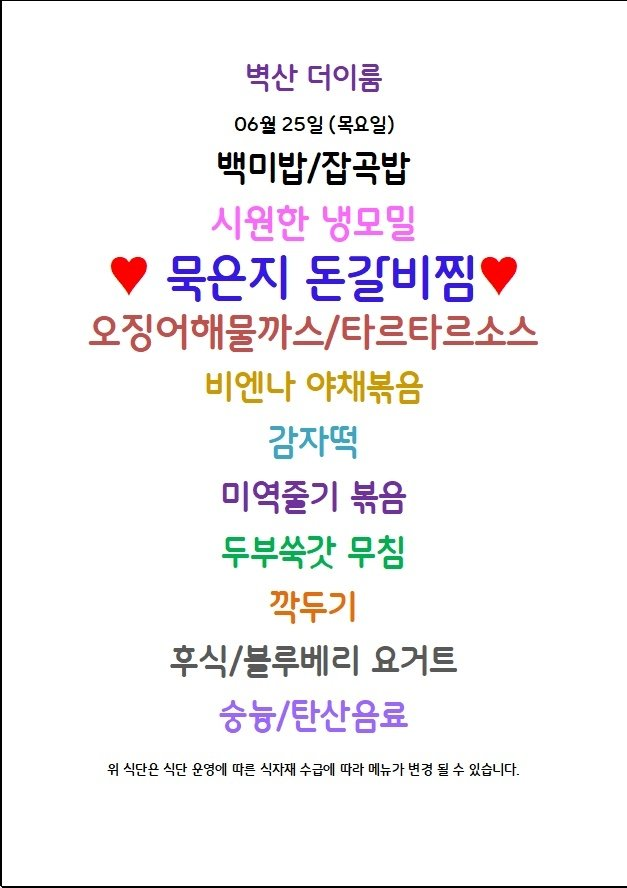
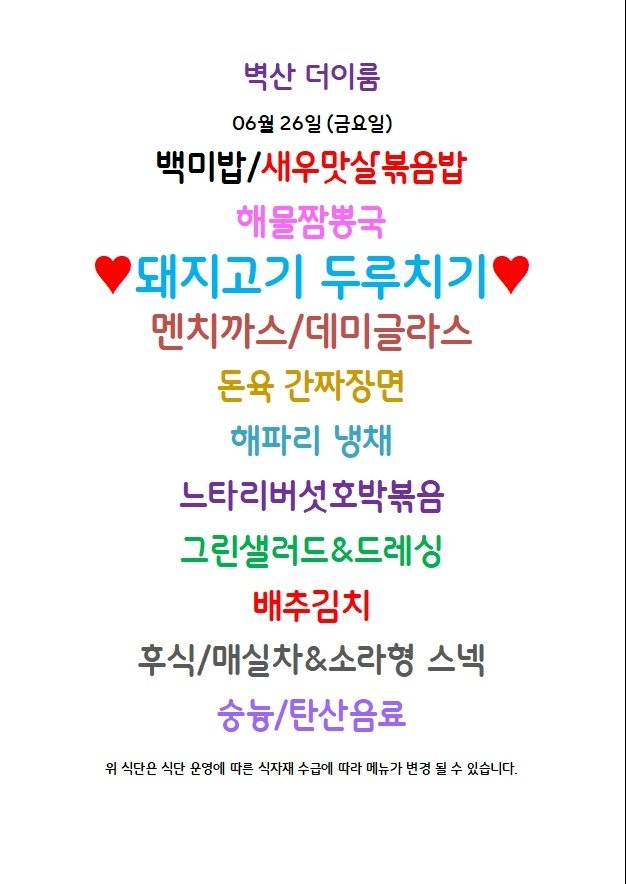
Update menu board assets

diff --git a/guro-menu/index.html b/guro-menu/index.html
@@ -32,7 +32,7 @@
   </header>
   <section class="meta">
     <div><small>기준 날짜</small><strong>2026년 6월 26일 금요일</strong></div>
-    <div><small>최종 갱신</small><strong>2026-06-26 09:03:28</strong></div>
+    <div><small>최종 갱신</small><strong>2026-06-26 09:14:09</strong></div>
     <div><small>등록 식당</small><strong>5개</strong></div>
   </section>
   <div class="notice">공개 카카오 채널의 메뉴 이미지를 자동 수집하고 OCR로 정리합니다. 텍스트에 오타가 있을 수 있으니 식단 이미지를 함께 확인해 주세요.</div>
@@ -89,8 +89,8 @@
           <a class="channel" href="https://pf.kakao.com/_xdLzxgG" target="_blank" rel="noopener">원본 채널</a>
         </div>
         <img class="menu-image" src="./images/byucksan-theirum.png" alt="벽산더이룸 식단 이미지" loading="lazy">
-        <p class="message">최신 공개 식단 이미지의 텍스트입니다. 날짜는 원본 이미지를 확인해 주세요.</p>
-        <ul><li>백미밥/잡곡밥</li><li>시원한 냉모밀</li><li>묵은지 돈길비찜</li><li>오징어해물까스/타르타르소스</li><li>비엔나 야채볶음</li><li>감자떡</li><li>미역줄기 볶음</li><li>두부쑥갓 무침</li><li>후식/블루베리 요거트</li><li>숭등/탄산음료</li></ul>
+        
+        <ul><li>백미밥/새우맛실볶음밥</li><li>해물쌈봉국</li><li>돼지고기 두루치기?</li><li>멘치까스/데미글라스</li><li>돈육 간짜장면</li><li>해파리 냉채</li><li>느타리버섯오박볶음</li><li>그린샐러드&amp;드레싱</li><li>배주김치</li><li>후식/매실차&amp;소라형 스넥</li><li>숭늉/탄산음료</li></ul>
       </article>
 
       <article class="restaurant-card">

diff --git a/menu-today/index.html b/menu-today/index.html
@@ -209,7 +209,7 @@
 
     <section class="meta-bar">
       <div class="meta-card"><div class="meta-label">기준 날짜</div><div class="meta-value">2026년 6월 26일 금요일</div></div>
-      <div class="meta-card"><div class="meta-label">최종 가져온 시간</div><div class="meta-value">2026-06-26 09:03:16</div></div>
+      <div class="meta-card"><div class="meta-label">최종 가져온 시간</div><div class="meta-value">2026-06-26 09:13:55</div></div>
       <div class="meta-card"><div class="meta-label">확인 완료</div><div class="meta-value">9개 식당</div></div>
       <div class="meta-card"><div class="meta-label">준비중</div><div class="meta-value">3개 채널</div></div>
     </section>
